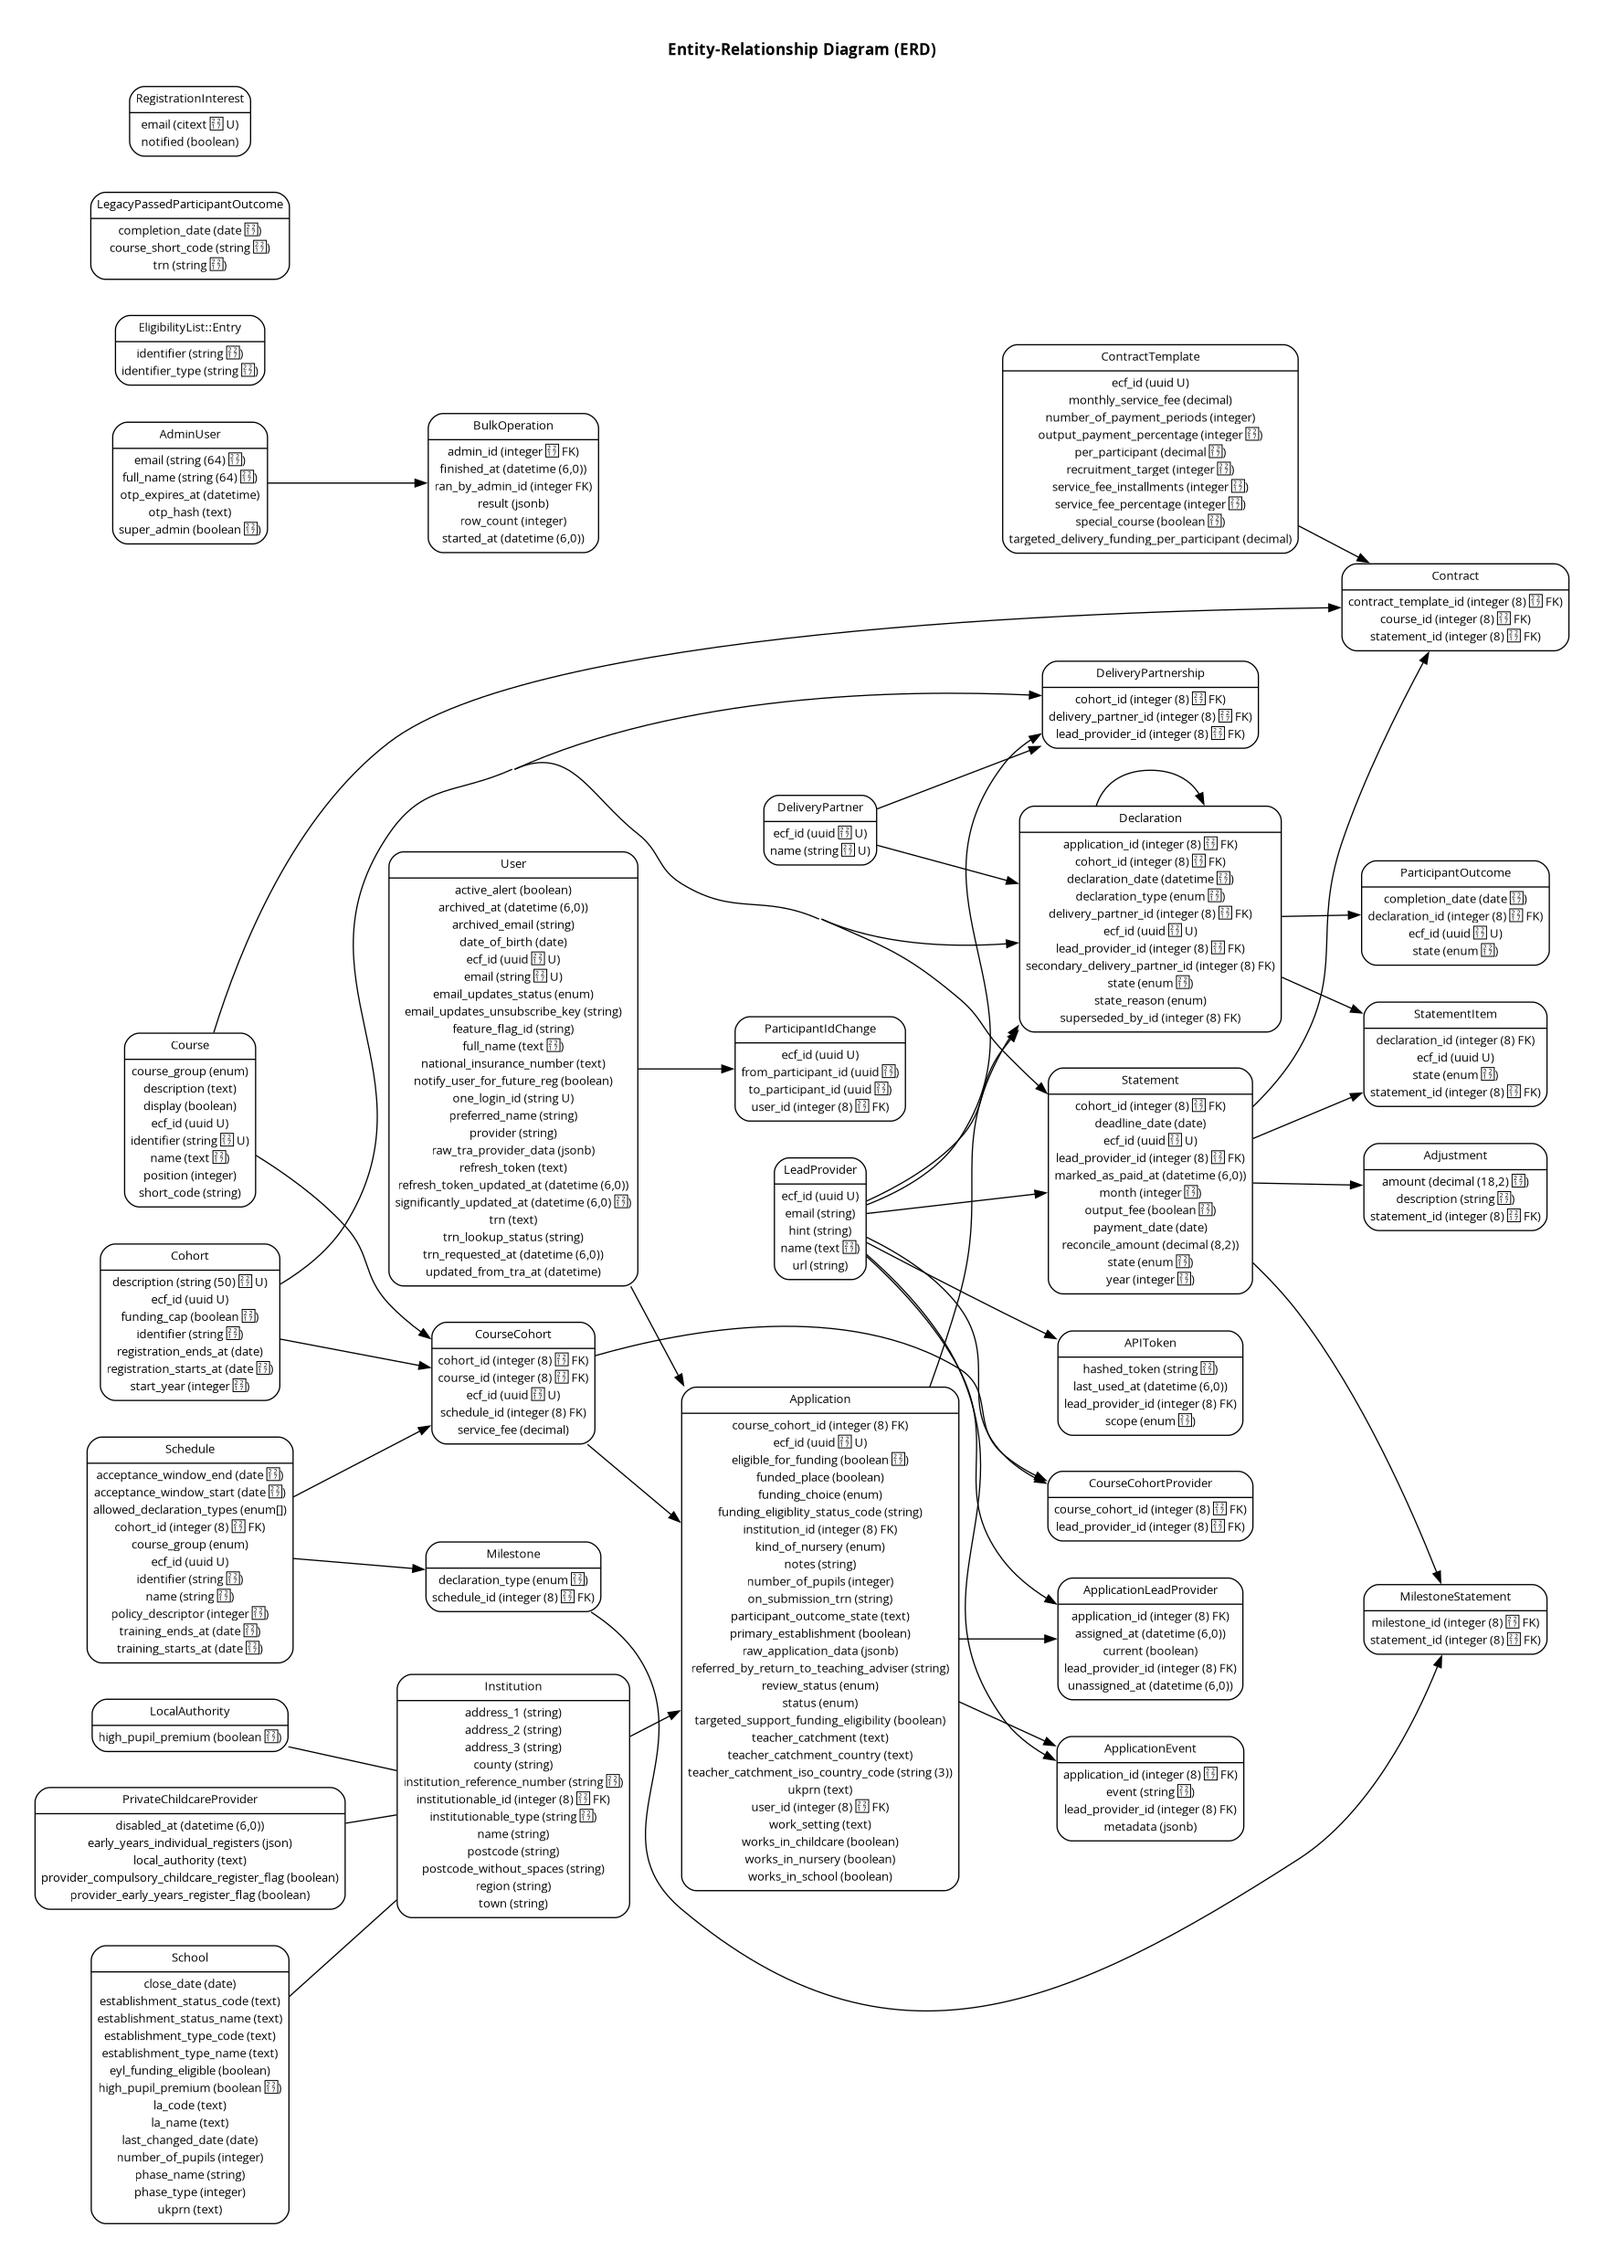
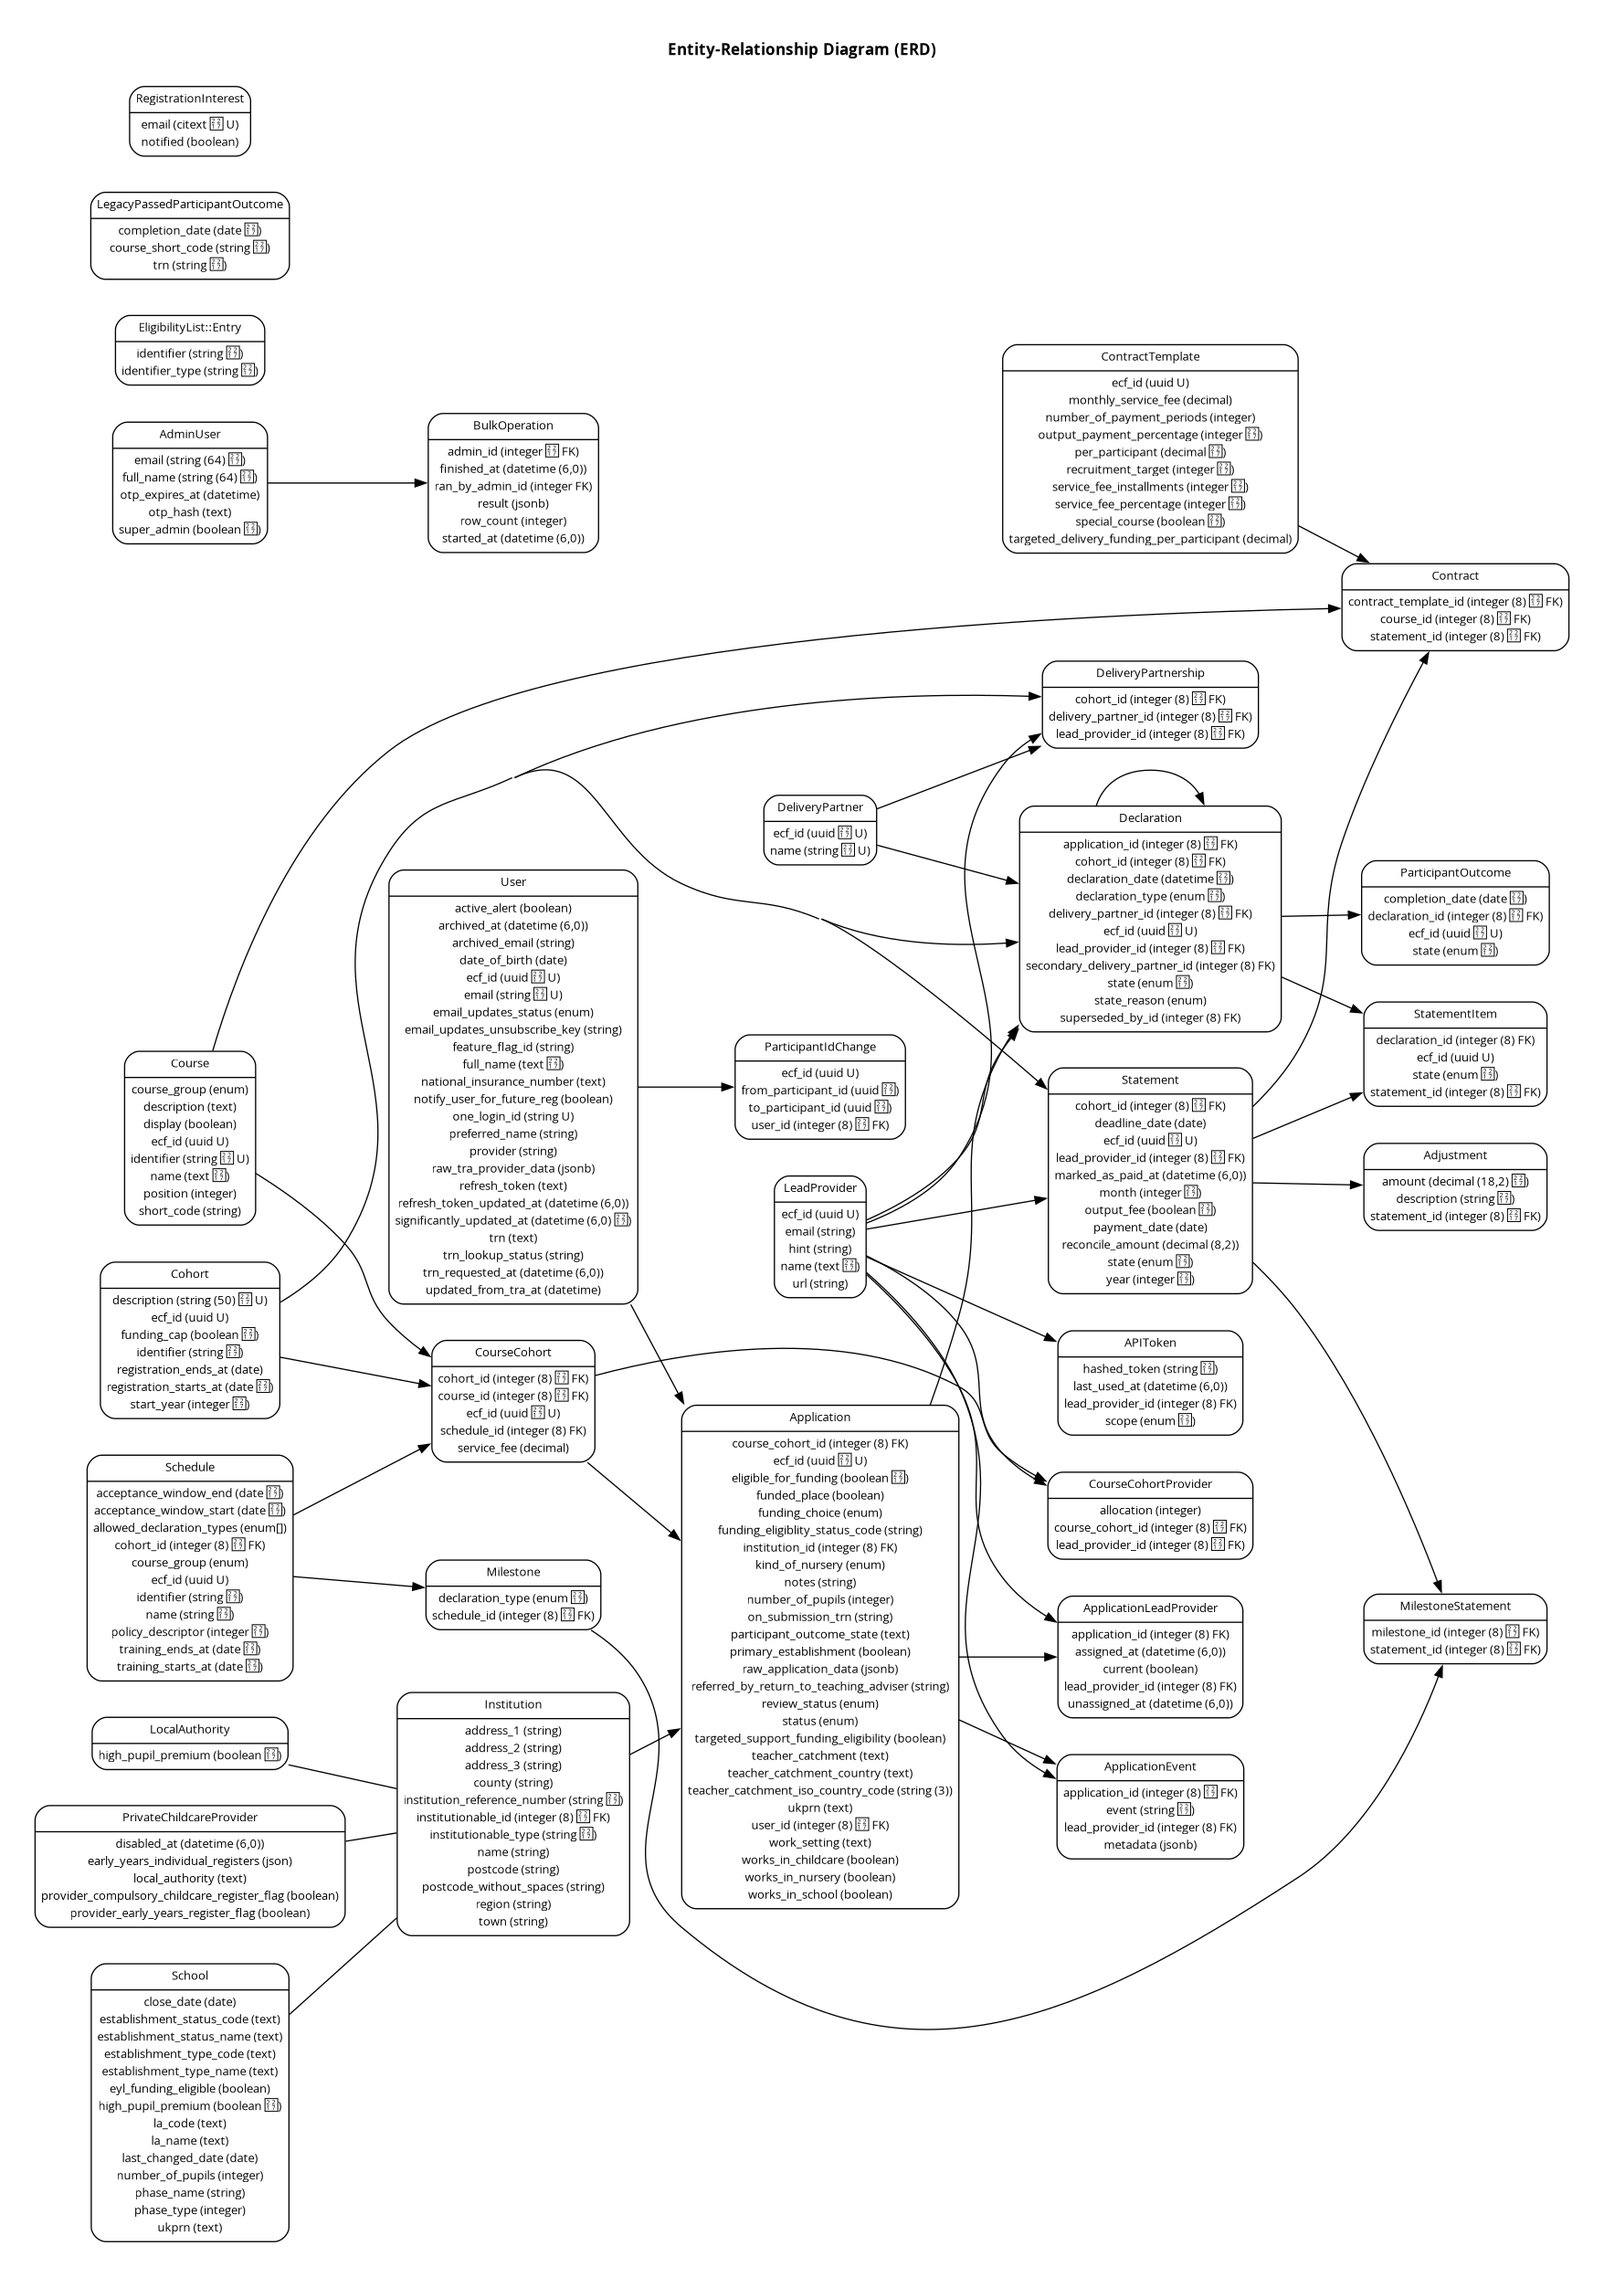
[608] Add allocation field to CourseCohortProvider

diff --git a/db/schema.rb b/db/schema.rb
@@ -10,7 +10,7 @@
 #
 # It's strongly recommended that you check this file into your version control system.
 
-ActiveRecord::Schema[8.1].define(version: 2026_07_15_115642) do
+ActiveRecord::Schema[8.1].define(version: 2026_07_15_144202) do
   # These are extensions that must be enabled in order to support this database
   enable_extension "btree_gin"
   enable_extension "citext"
@@ -222,6 +222,7 @@ ActiveRecord::Schema[8.1].define(version: 2026_07_15_115642) do
   end
 
   create_table "course_cohort_providers", force: :cascade do |t|
+    t.integer "allocation"
     t.bigint "course_cohort_id", null: false
     t.datetime "created_at", null: false
     t.bigint "lead_provider_id", null: false

diff --git a/spec/models/course_cohort_provider_spec.rb b/spec/models/course_cohort_provider_spec.rb
@@ -1,0 +1,15 @@
+require "rails_helper"
+
+RSpec.describe CourseCohortProvider do
+  subject(:course_cohort_provider) { build(:course_cohort_provider) }
+
+  describe "relationships" do
+    it { is_expected.to belong_to(:course_cohort) }
+    it { is_expected.to belong_to(:lead_provider) }
+  end
+
+  describe "validations" do
+    it { is_expected.to validate_uniqueness_of(:course_cohort_id).scoped_to(:lead_provider_id) }
+    it { is_expected.to validate_numericality_of(:allocation).only_integer.is_greater_than_or_equal_to(0).allow_nil }
+  end
+end

diff --git a/app/models/course_cohort_provider.rb b/app/models/course_cohort_provider.rb
@@ -3,4 +3,5 @@ class CourseCohortProvider < ApplicationRecord
   belongs_to :lead_provider
 
   validates :course_cohort_id, uniqueness: { scope: :lead_provider_id }
+  validates :allocation, numericality: { only_integer: true, greater_than_or_equal_to: 0 }, allow_nil: true
 end

diff --git a/db/migrate/20260715144202_add_allocation_to_course_cohort_providers.rb b/db/migrate/20260715144202_add_allocation_to_course_cohort_providers.rb
@@ -1,0 +1,5 @@
+class AddAllocationToCourseCohortProviders < ActiveRecord::Migration[8.1]
+  def change
+    add_column :course_cohort_providers, :allocation, :integer
+  end
+end

diff --git a/documentation/domain-model.md b/documentation/domain-model.md
@@ -102,6 +102,7 @@ erDiagram
     datetime created_at
     integer lead_provider_id
     datetime updated_at
+    integer allocation
   }
   CourseCohortProvider }o--|| CourseCohort : belongs_to
   CourseCohortProvider }o--|| LeadProvider : belongs_to
